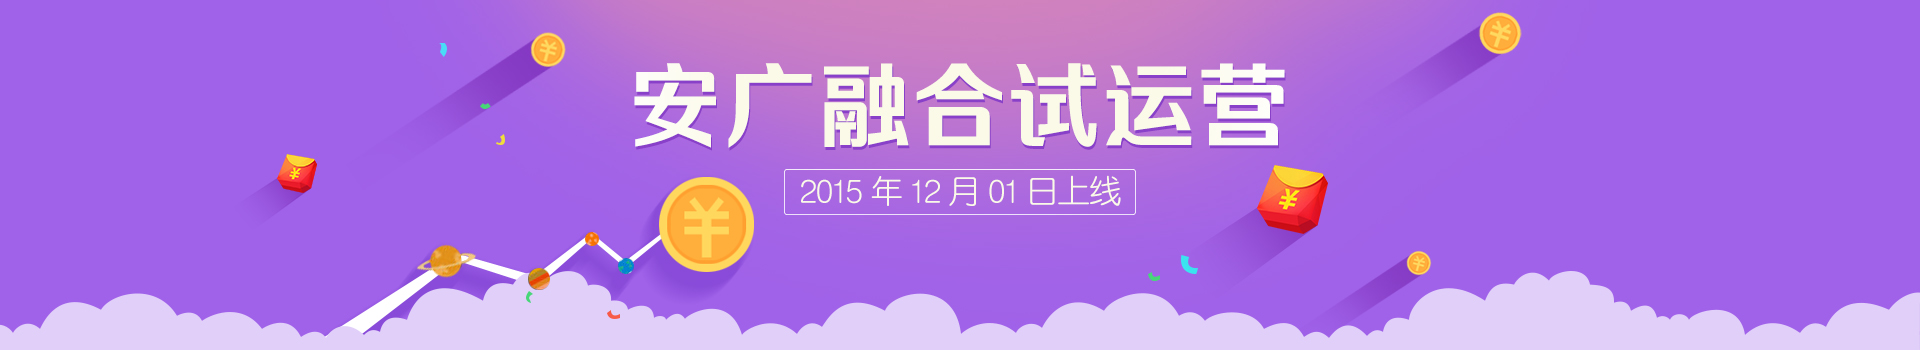
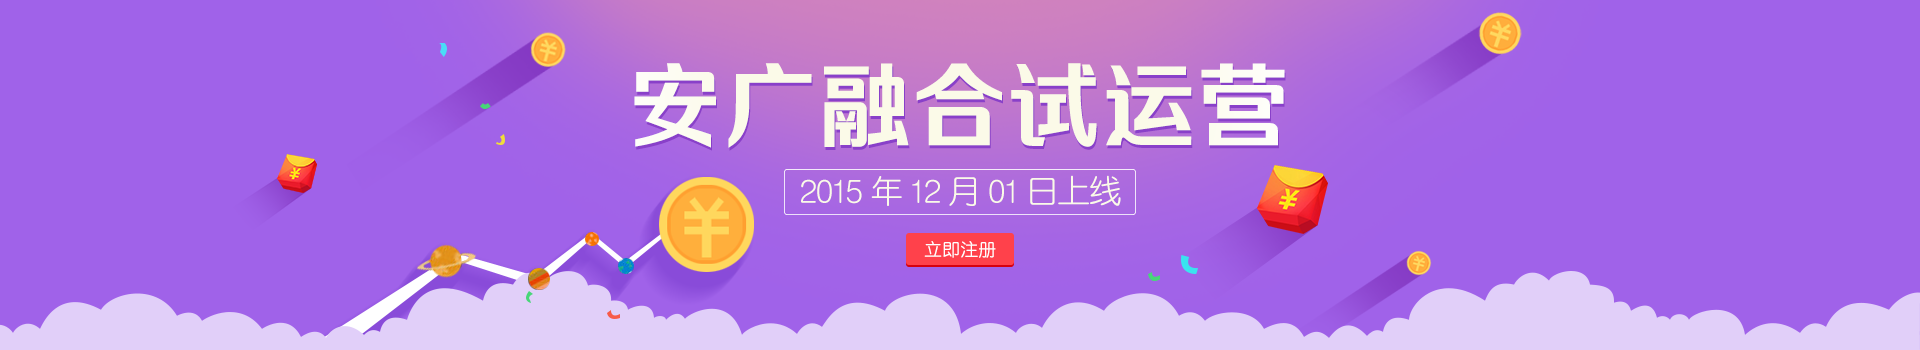
首页调整

Changed region(s): [[0.4688, 0.6571, 0.5312, 0.7714]]

diff --git a/Agp2p.Web/templates/AnGuang/index.html b/Agp2p.Web/templates/AnGuang/index.html
@@ -30,8 +30,7 @@
         <!-- Wrapper for slides -->
         <div class="carousel-inner" role="listbox">
             <div class="item active">
-                <img src="<%templateskin%>/imgs/index/banner-01.jpg" alt="Chania">
-                <a href='<%linkurl("register")%>' class="banner-register"></a>
+                <a href='<%linkurl("register")%>'><img src="<%templateskin%>/imgs/index/banner-01.jpg" alt="Chania"></a>
             </div>
             <!--<div class="item">-->
                 <!--<img src="<%templateskin%>/imgs/index/bannerTest-02.jpg" alt="Chania">-->
@@ -83,7 +82,7 @@
 </div>
 <!--announcement end-->
 
-<div class="features">
+<div class="container-fluid features">
     <ul class="list-unstyled list-inline content-wrap">
         <li><a href='<%linkurl("safe_defence")%>' class="funds-icon"></a>
             <div>

diff --git a/Agp2p.Web/templates/AnGuang/less/index.less b/Agp2p.Web/templates/AnGuang/less/index.less
@@ -19,22 +19,11 @@ div#bannerCarousel {
             filter: none !important;
         }
     }
-    .banner-register {
-        position: relative;
-        display: inline-block;
-        width: 110px;
-        height: 35px;
-        left: 50%;
-        margin-left: -55px;
-        top: -110px;
-        background: url("@{images}/register-btn.png");
-    }
 }
 
 /*公告板*/
 div.announcement-wrap {
     background: #f7f4ed;
-    margin-top: -40px;
     .announcement {
         width: @min-width;
         height: 40px;
